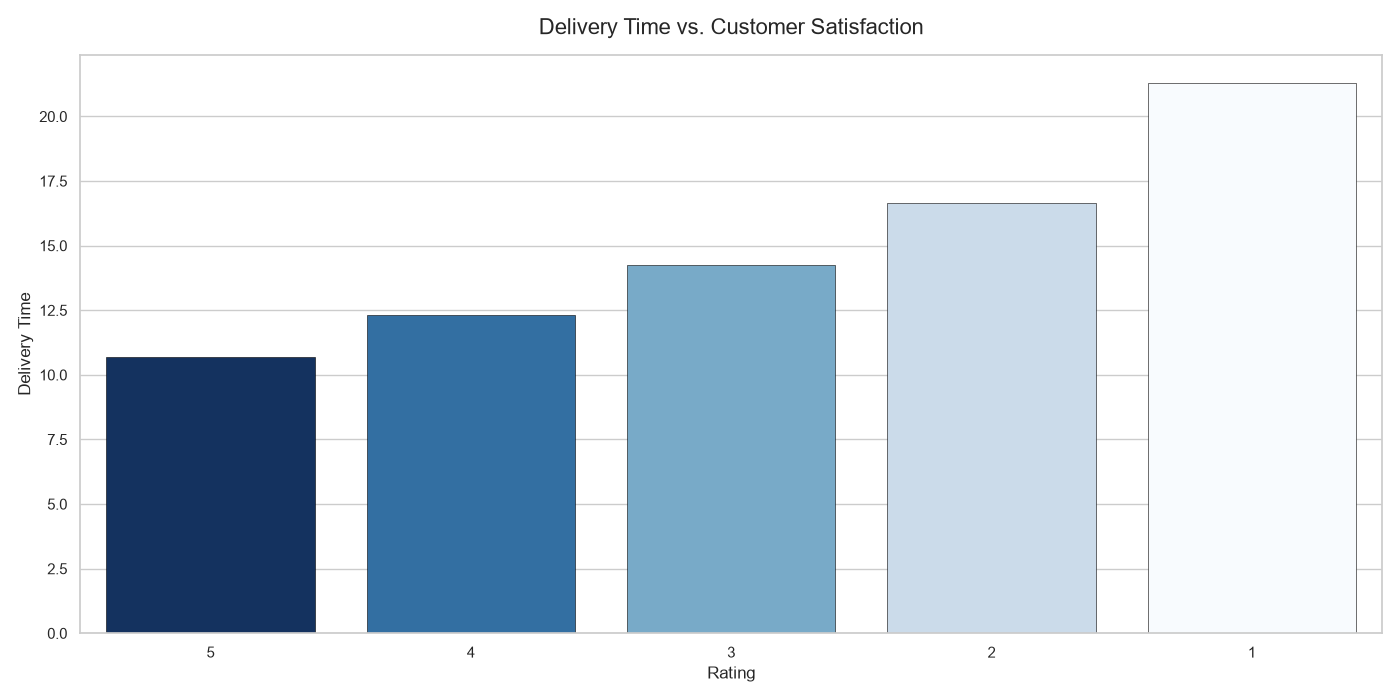
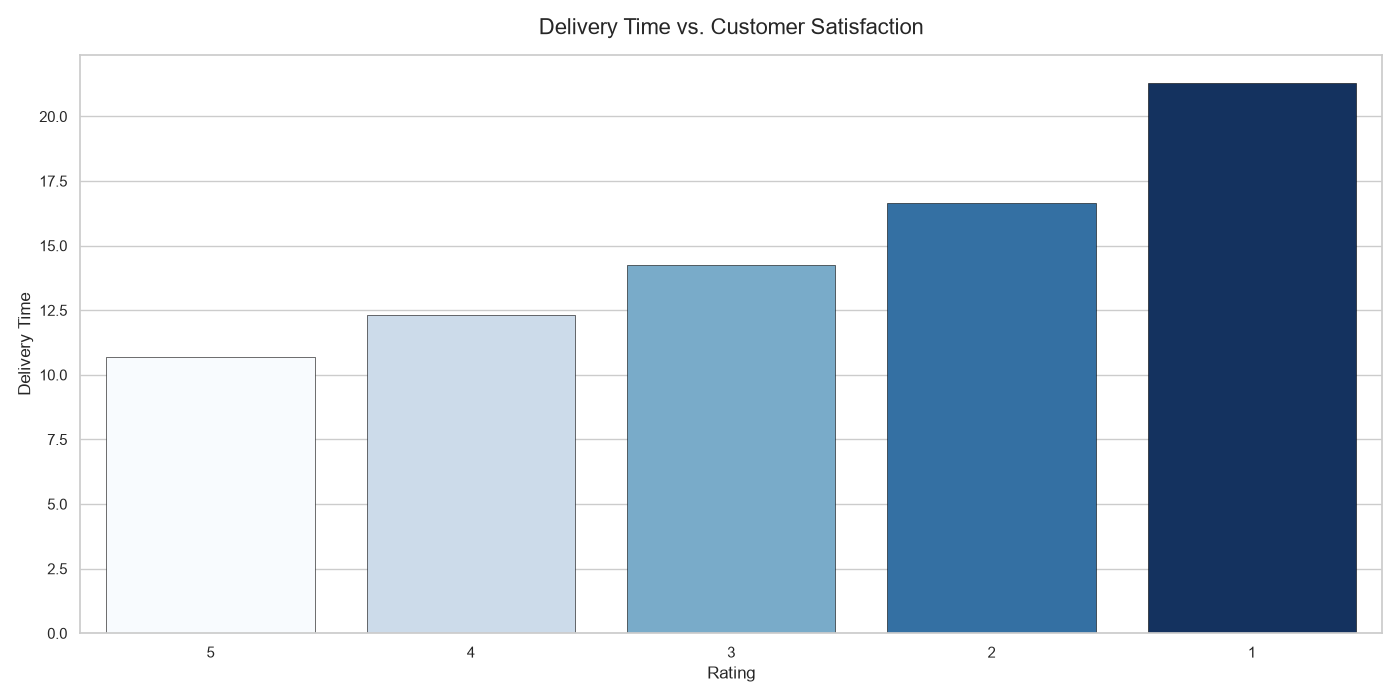
commit

diff --git a/src/clear_and_load_data.py b/src/clear_and_load_data.py
@@ -5,14 +5,14 @@ from sqlalchemy import create_engine
 
 def clean_orders(df):
     date_format = '%Y-%m-%d %H:%M:%S'
-    date_colections = [
+    date_collection = [
         'order_purchase_timestamp',
         'order_approved_at',
         'order_delivered_carrier_date',
         'order_delivered_customer_date',
         'order_estimated_delivery_date'
     ]
-    for col in date_colections:
+    for col in date_collection:
         df[col] = pd.to_datetime(df[col], format=date_format, errors='coerce')
     return df
 